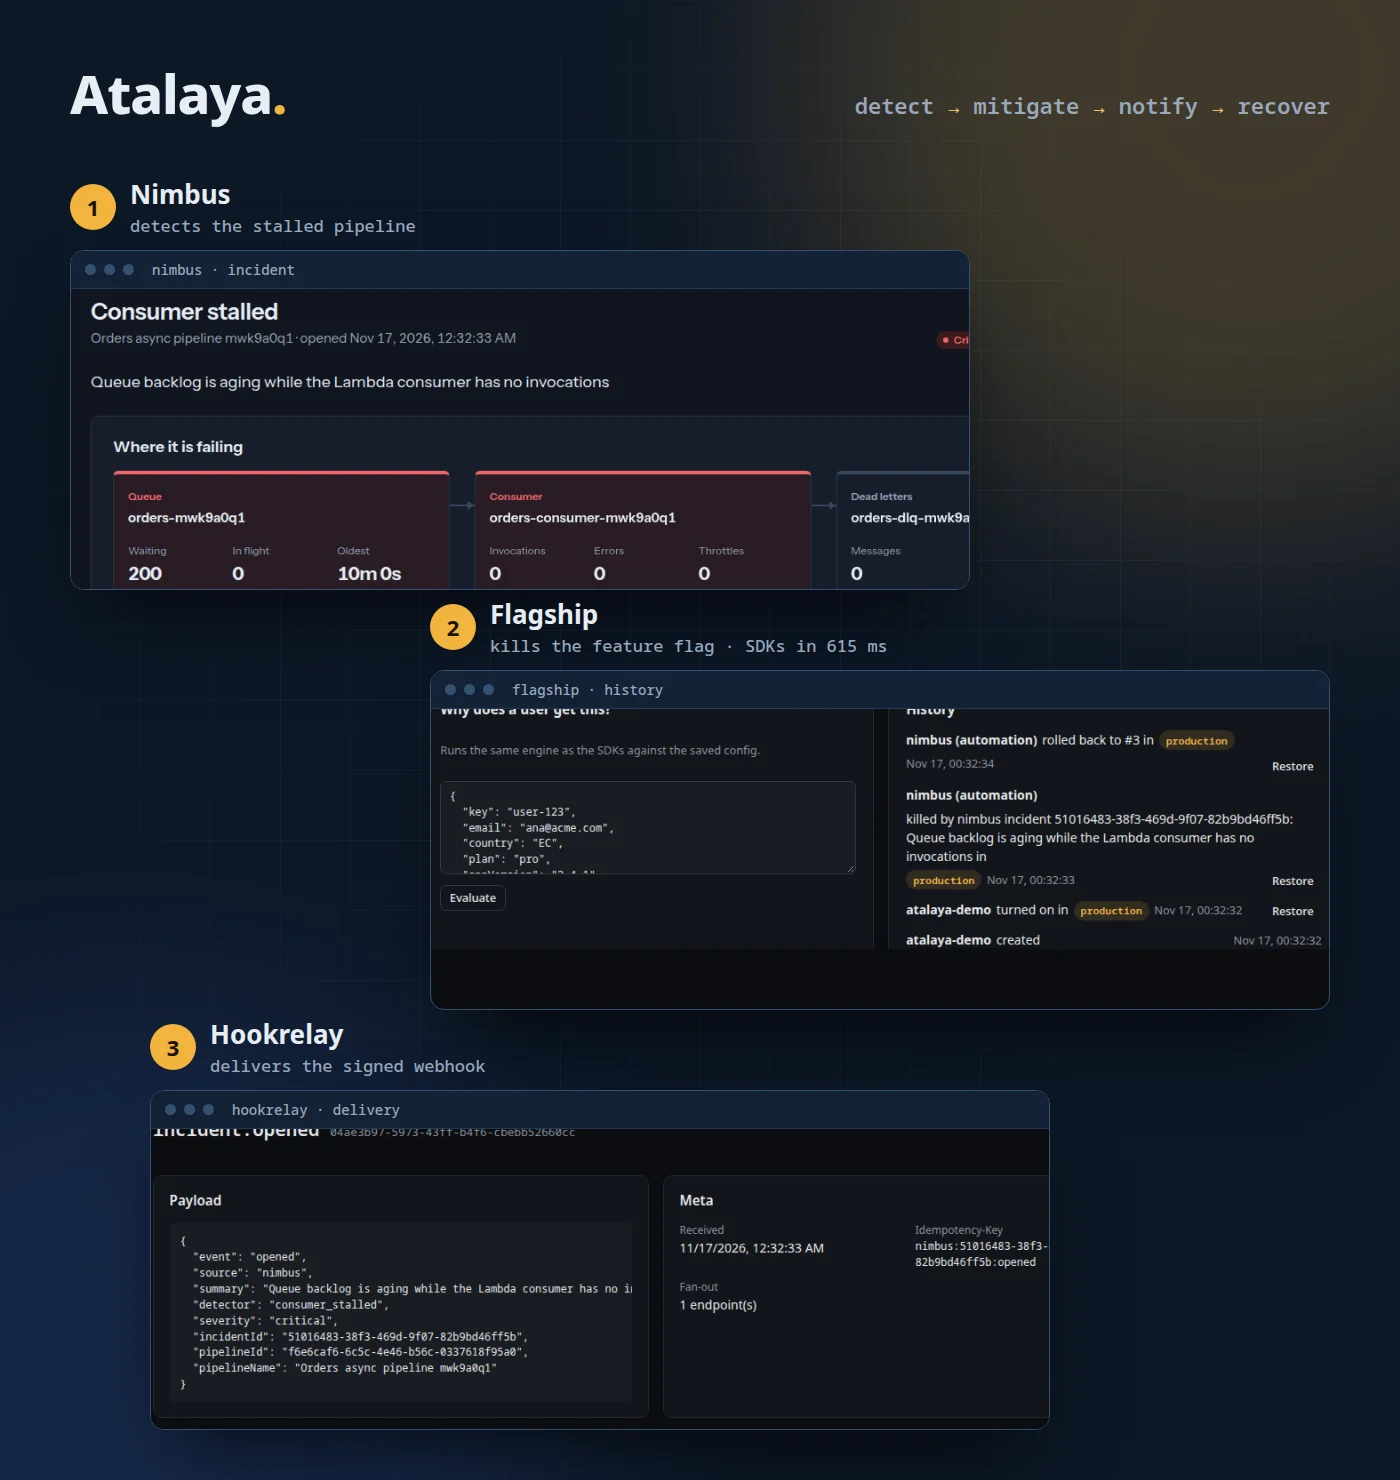
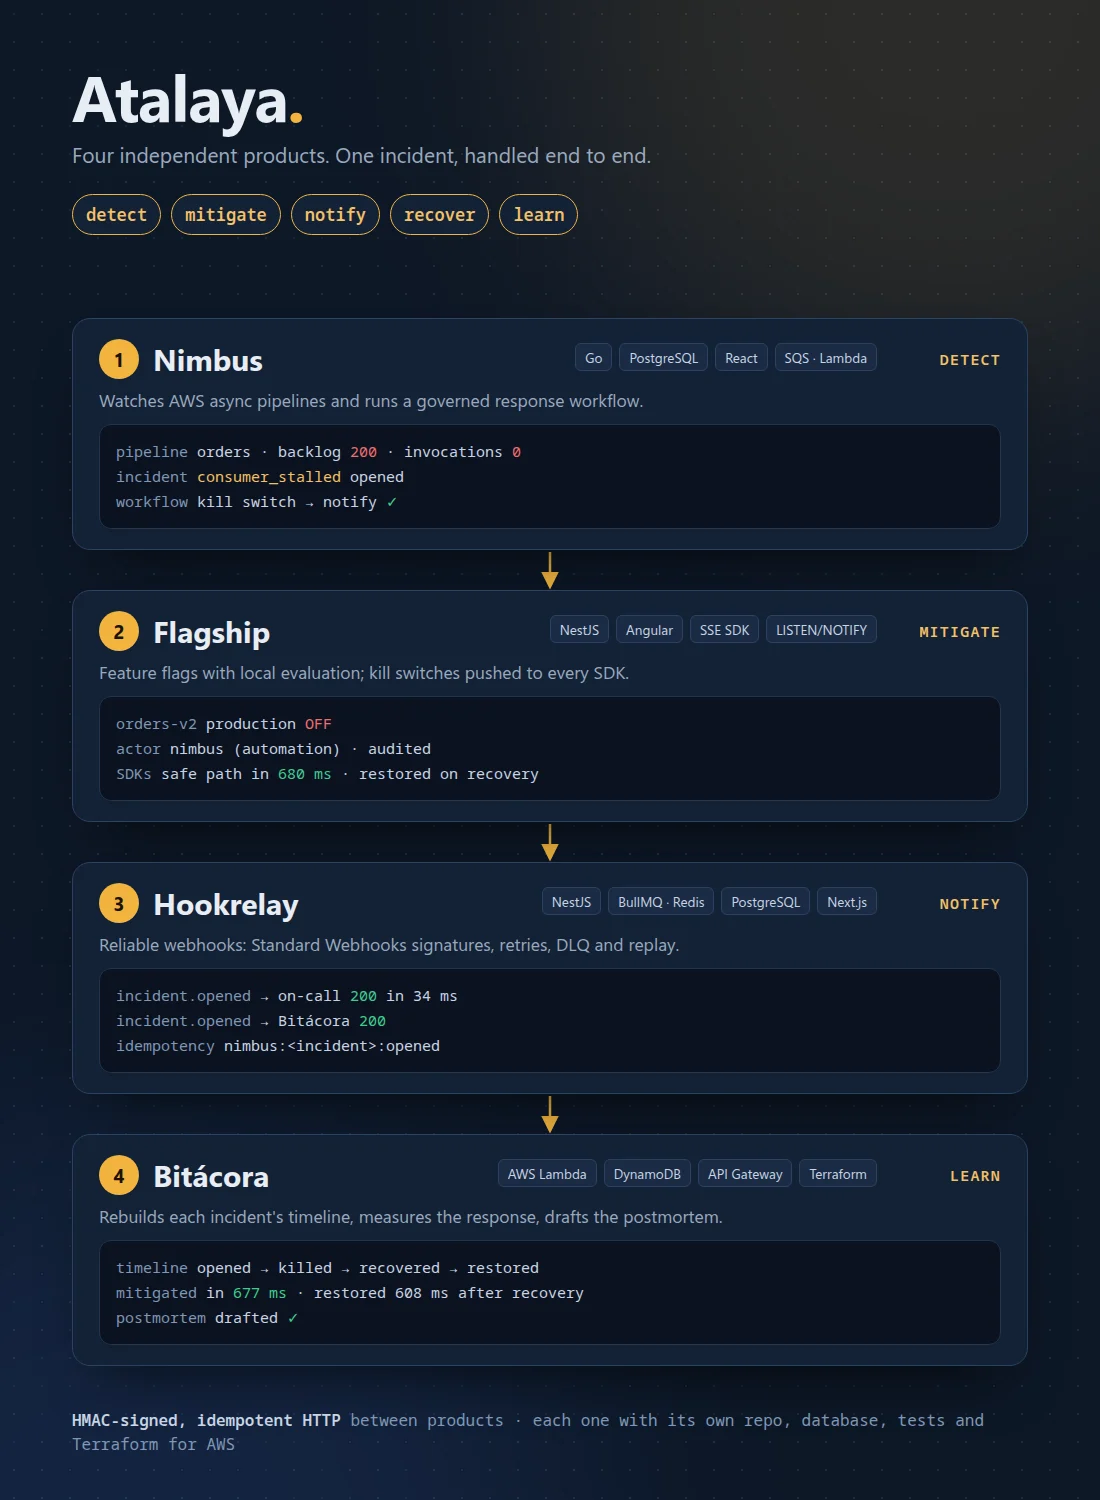
README cover with the four products

diff --git a/docs/img/cover-source.html b/docs/img/cover-source.html
@@ -1,0 +1,61 @@
+<!doctype html><html><head><meta charset="utf-8"><style>
+*{box-sizing:border-box;margin:0}
+body{width:1100px;height:1500px;background:#0d1726;color:#e8edf4;font-family:Inter,"Segoe UI",system-ui,sans-serif;position:relative;overflow:hidden}
+body::before{content:'';position:absolute;inset:0;background-image:radial-gradient(#243852 1.2px,transparent 1.2px);background-size:28px 28px;opacity:.55}
+.glow{position:absolute;border-radius:50%;filter:blur(130px)}
+.g1{width:820px;height:820px;background:#f3b43f;opacity:.13;top:-420px;right:-260px}
+.g2{width:900px;height:900px;background:#3b6fd6;opacity:.14;bottom:-520px;left:-320px}
+header{position:absolute;top:64px;left:72px;right:72px}
+h1{font-size:64px;font-weight:800;letter-spacing:-.02em;line-height:1}
+h1 span{color:#f3b43f}
+.sub{margin-top:12px;color:#9aa9bd;font-size:21px}
+.loop{display:flex;gap:10px;margin-top:26px;font:600 17px ui-monospace,Menlo,monospace}
+.loop span{padding:8px 13px;border:1px solid #34506f;border-radius:999px;color:#c9d4e3;background:#132136}
+.loop span.on{border-color:#f3b43f;color:#f5c064}
+.grid{position:absolute;top:318px;left:72px;right:72px;display:grid;gap:40px}
+.tile{position:relative;background:#132136;border:1px solid #2b4262;border-radius:18px;padding:26px 28px 24px;box-shadow:0 30px 60px -30px rgba(0,0,0,.7);height:232px;display:flex;flex-direction:column;padding:20px 26px}
+.top{display:flex;align-items:center;gap:14px}
+.n{display:grid;place-items:center;width:40px;height:40px;border-radius:50%;background:#f3b43f;color:#1a1204;font-weight:800;font-size:19px}
+.name{font-size:30px;font-weight:800}
+.role{margin-left:auto;font:600 15px ui-monospace,Menlo,monospace;color:#f5c064;text-transform:uppercase;letter-spacing:.08em}
+.what{margin:8px 0 12px;color:#9aa9bd;font-size:17.5px;line-height:1.45}
+.term{background:#0b1220;border:1px solid #22344d;border-radius:12px;padding:14px 16px;font:15px/1.65 ui-monospace,Menlo,monospace;color:#c9d4e3;overflow:hidden}
+.term .k{color:#7f97b5}.term .ok{color:#3ecf8e}.term .bad{color:#f26d6d}.term .am{color:#f5c064}
+.stack{position:absolute;top:24px;right:150px;margin:0;display:flex;flex-wrap:wrap;gap:7px}
+.stack span{font-size:13.5px;padding:4px 9px;border-radius:6px;background:#1a2b44;color:#c9d4e3;border:1px solid #2b4262}
+svg{position:absolute;inset:0;pointer-events:none}
+.foot{position:absolute;bottom:44px;left:72px;right:72px;color:#7f97b5;font:16px/1.5 ui-monospace,Menlo,monospace}
+.foot b{color:#c9d4e3;font-weight:600}
+</style></head><body><div class="glow g1"></div><div class="glow g2"></div>
+<header>
+  <div><h1>Atalaya<span>.</span></h1><div class="sub">Four independent products. One incident, handled end to end.</div></div>
+  <div class="loop"><span class="on">detect</span><span class="on">mitigate</span><span class="on">notify</span><span class="on">recover</span><span class="on">learn</span></div>
+</header>
+<svg width="1100" height="1500" viewBox="0 0 1100 1500">
+  <defs><marker id="a" viewBox="0 0 10 10" refX="8" refY="5" markerWidth="7" markerHeight="7" orient="auto"><path d="M0 0L10 5L0 10z" fill="#f3b43f"/></marker></defs>
+  <g stroke="#f3b43f" stroke-width="2.5" fill="none" marker-end="url(#a)">
+    <path d="M550 552 V586"/>
+    <path d="M550 824 V858"/>
+    <path d="M550 1096 V1130"/>
+  </g>
+</svg>
+<div class="grid">
+  <div class="tile"><div class="top"><div class="n">1</div><div class="name">Nimbus</div><div class="role">detect</div></div>
+    <div class="what">Watches AWS async pipelines and runs a governed response workflow.</div>
+    <div class="term"><span class="k">pipeline</span> orders · backlog <span class="bad">200</span> · invocations <span class="bad">0</span><br><span class="k">incident</span> <span class="am">consumer_stalled</span> opened<br><span class="k">workflow</span> kill switch → notify <span class="ok">✓</span></div>
+    <div class="stack"><span>Go</span><span>PostgreSQL</span><span>React</span><span>SQS · Lambda</span></div></div>
+  <div class="tile"><div class="top"><div class="n">2</div><div class="name">Flagship</div><div class="role">mitigate</div></div>
+    <div class="what">Feature flags with local evaluation; kill switches pushed to every SDK.</div>
+    <div class="term"><span class="k">orders-v2</span> production <span class="bad">OFF</span><br><span class="k">actor</span> nimbus (automation) · audited<br><span class="k">SDKs</span> safe path in <span class="ok">680 ms</span> · restored on recovery</div>
+    <div class="stack"><span>NestJS</span><span>Angular</span><span>SSE SDK</span><span>LISTEN/NOTIFY</span></div></div>
+  <div class="tile"><div class="top"><div class="n">3</div><div class="name">Hookrelay</div><div class="role">notify</div></div>
+    <div class="what">Reliable webhooks: Standard Webhooks signatures, retries, DLQ and replay.</div>
+    <div class="term"><span class="k">incident.opened</span> → on-call <span class="ok">200</span> in 34 ms<br><span class="k">incident.opened</span> → Bitácora <span class="ok">200</span><br><span class="k">idempotency</span> nimbus:&lt;incident&gt;:opened</div>
+    <div class="stack"><span>NestJS</span><span>BullMQ · Redis</span><span>PostgreSQL</span><span>Next.js</span></div></div>
+  <div class="tile"><div class="top"><div class="n">4</div><div class="name">Bitácora</div><div class="role">learn</div></div>
+    <div class="what">Rebuilds each incident's timeline, measures the response, drafts the postmortem.</div>
+    <div class="term"><span class="k">timeline</span> opened → killed → recovered → restored<br><span class="k">mitigated</span> in <span class="ok">677 ms</span> · restored 608 ms after recovery<br><span class="k">postmortem</span> drafted <span class="ok">✓</span></div>
+    <div class="stack"><span>AWS Lambda</span><span>DynamoDB</span><span>API Gateway</span><span>Terraform</span></div></div>
+</div>
+<div class="foot"><b>HMAC-signed, idempotent HTTP</b> between products · each one with its own repo, database, tests and Terraform for AWS</div>
+</body></html>
